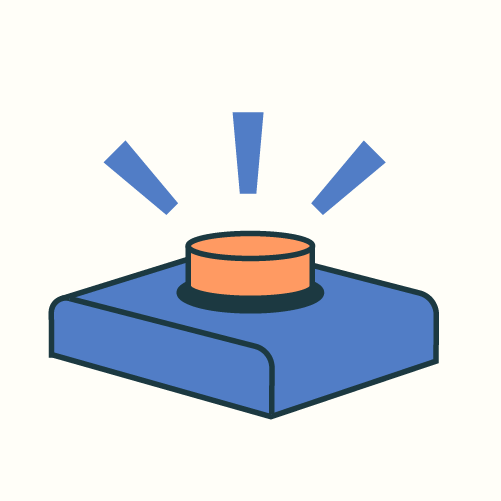
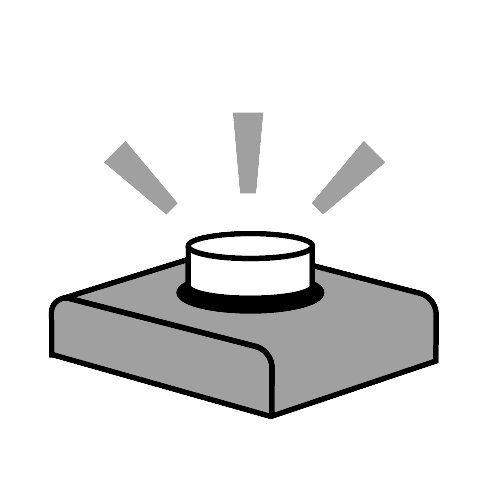
image thumbnail adjustments

diff --git a/index.html b/index.html
@@ -53,21 +53,21 @@
             </div>
             <div class="thumbnail" >
               <div class="thumbnail-image-container">
-              <image src="images/oblong-logo-small.png">
+              <image src="images/oblong-logo-small.png" style="padding-top:10px; max-width:130px; max-height:130px">
               </div>
                 <div class="thumbnail-color indigo">
                 </div>
             </div>
             <div class="thumbnail" >
               <div class="thumbnail-image-container">
-              <image src="images/SAD-POSTERS.jpg">
+              <image src="images/SAD-POSTERS.jpg" style="max-width:80px; max-height:80px">
               </div>
                 <div class="thumbnail-color green">
                 </div>
             </div>
             <div class="thumbnail" >
               <div class="thumbnail-image-container">
-              <image src="images/soso-logo.png">
+              <image src="images/soso-logo.png" style="padding-top:10px; padding-left:5px; max-width:110px; max-height:110px">
               </div>
                 <div class="thumbnail-color purple">
                 </div>
@@ -81,7 +81,7 @@
             </div>
             <div class="thumbnail" >
               <div class="thumbnail-image-container">
-              <image src="images/small-button.png" class="full grayscale">
+              <image src="images/small-button.png" class="">
               </div>
                 <div class="thumbnail-color orange">
                 </div>

diff --git a/css/main.css b/css/main.css
@@ -425,8 +425,8 @@ transition:  0.1s ease-out;
 
 
 .thumbnail-image-container img{
-	max-width: 110px;
-	max-height: 140px;
+	max-width: 90px;
+	max-height: 90px;
 	opacity:.8;
 	mix-blend-mode: multiply;
 	align-self: center;
